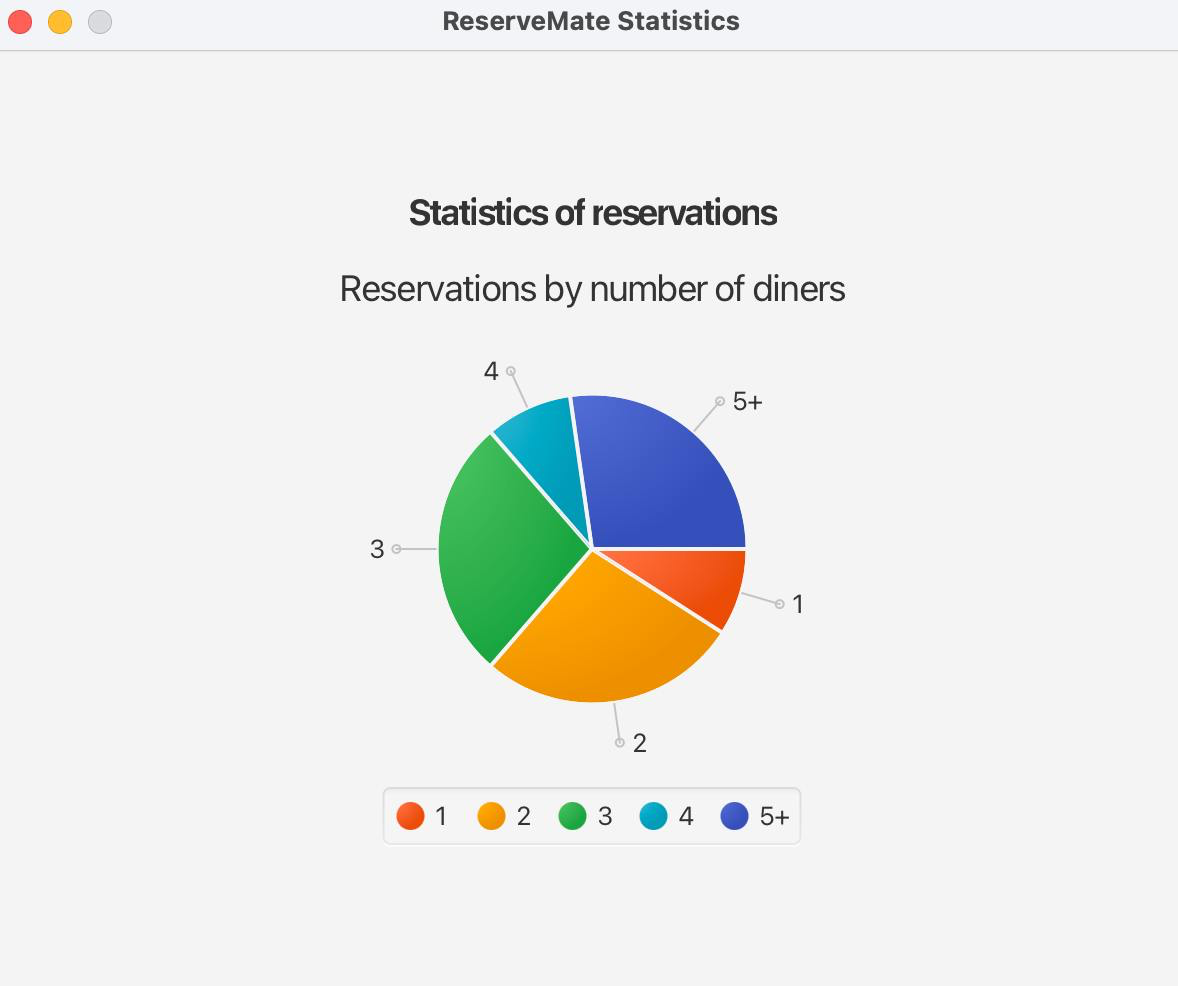
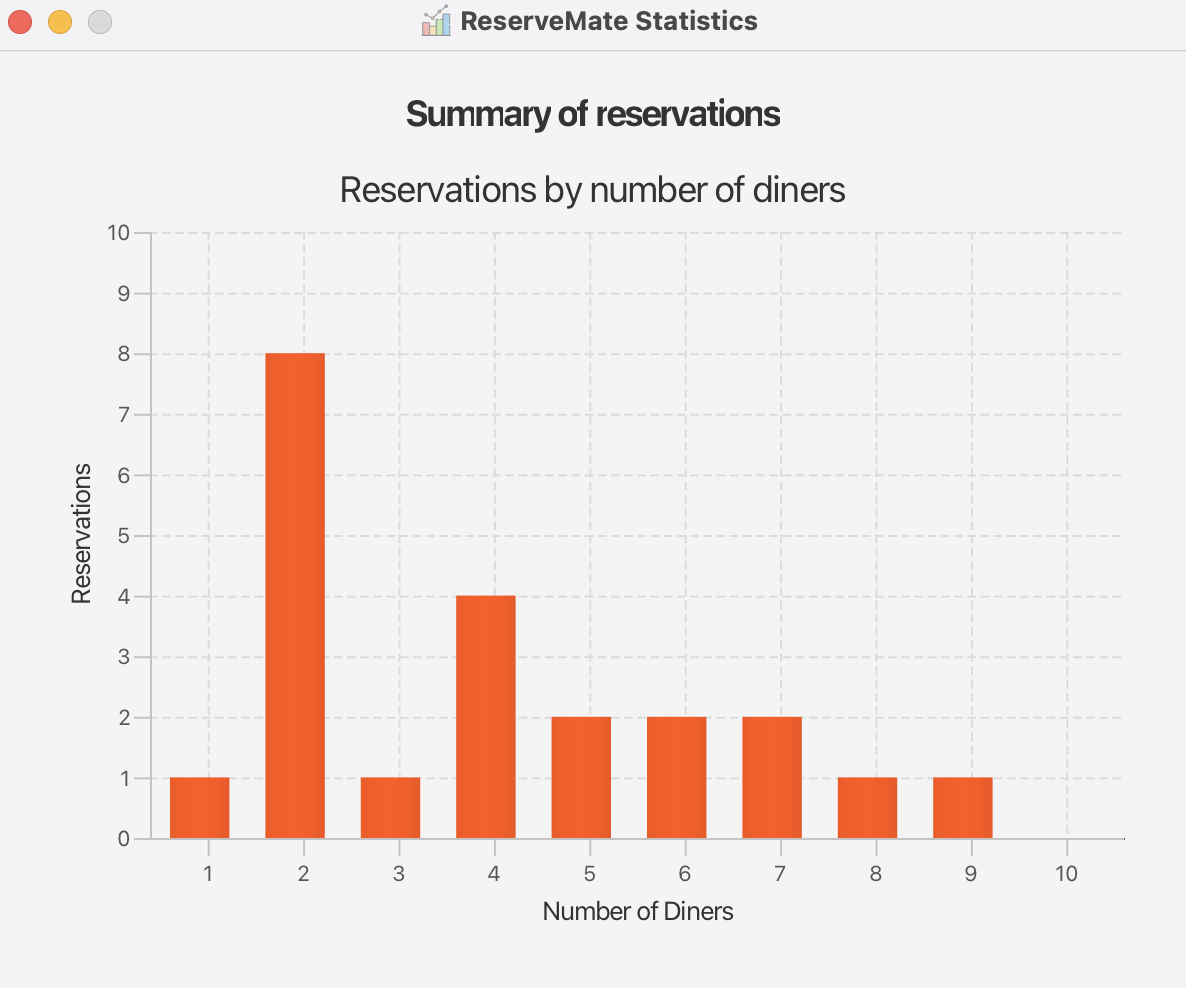
Edit no stats output

diff --git a/src/test/java/seedu/reserve/logic/commands/StatisticsCommandTest.java b/src/test/java/seedu/reserve/logic/commands/StatisticsCommandTest.java
@@ -2,18 +2,30 @@ package seedu.reserve.logic.commands;
 
 import static seedu.reserve.logic.commands.CommandTestUtil.assertCommandSuccess;
 import static seedu.reserve.logic.commands.StatisticsCommand.SHOWING_STATISTICS_MESSAGE;
+import static seedu.reserve.testutil.Assert.assertThrows;
 
 import org.junit.jupiter.api.Test;
 
+import seedu.reserve.logic.commands.exceptions.CommandException;
 import seedu.reserve.model.Model;
 import seedu.reserve.model.ModelManager;
+import seedu.reserve.model.UserPrefs;
+import seedu.reserve.testutil.TypicalReservation;
 
 public class StatisticsCommandTest {
-    private Model model = new ModelManager();
-    private Model expectedModel = new ModelManager();
+    @Test
+    public void execute_noReservations_throwsCommandException() {
+        Model emptyModel = new ModelManager(); // empty model
+        StatisticsCommand statsCommand = new StatisticsCommand();
+
+        assertThrows(CommandException.class, () -> statsCommand.execute(emptyModel));
+    }
 
     @Test
-    public void execute_help_success() {
+    public void execute_withReservations_success() {
+        Model model = new ModelManager(TypicalReservation.getTypicalReserveMate(), new UserPrefs());
+        Model expectedModel = new ModelManager(TypicalReservation.getTypicalReserveMate(), new UserPrefs());
+
         CommandResult expectedCommandResult = new CommandResult(SHOWING_STATISTICS_MESSAGE, false, true, false);
         assertCommandSuccess(new StatisticsCommand(), model, expectedCommandResult, expectedModel);
     }

diff --git a/src/main/java/seedu/reserve/logic/commands/StatisticsCommand.java b/src/main/java/seedu/reserve/logic/commands/StatisticsCommand.java
@@ -18,10 +18,17 @@ public class StatisticsCommand extends Command {
             + ": Displays statistics of all reservations in the reservation book.\n\n"
             + "Example: " + COMMAND_WORD;
 
+    public static final String NO_RESERVATIONS_MESSAGE = "There are no reservations to generate statistics from. "
+            + "Use the 'add' command to create a reservation\n";
+
 
     @Override
     public CommandResult execute(Model model) throws CommandException {
         requireNonNull(model);
+
+        if (model.getFilteredReservationList().isEmpty()) {
+            throw new CommandException(NO_RESERVATIONS_MESSAGE);
+        }
 
         return new CommandResult(SHOWING_STATISTICS_MESSAGE, false, true, false);
     }

diff --git a/docs/UserGuide.md b/docs/UserGuide.md
@@ -800,16 +800,16 @@ Format: `show <INDEX>`
 
 ### Locating reservations by name: `find`
 
-Finds `Reservation` whose names contain any of the given keywords.
+Finds `Reservation` with names that contain any of the specified keywords.
 
-Format: `find KEYWORD [MORE_KEYWORDS]`
+Format: `find NAME [MORE_NAMES]`
 
 **Constraints**
-- The search is **case-insensitive**.
+- The search is **case-insensitive**, similar to saerch platforms like Google or Contacts.
 - The order of keywords does **not** matter.
-- Only **full words** will be matched (e.g., `Han` will not match `Hans`).
+- Only **full words** will be matched (e.g., `Han` will not match `Hans`), as full name
 - Searches are done on the **name field only**.
-- Matches are based on **OR** logic (any one keyword match is sufficient).
+- Matches are based on **OR** logic (any one name match is sufficient).
 
 ---
 
@@ -1078,7 +1078,7 @@ Format: `stats`
 > `stats`
 >
 > **Output:**
-> *(Pie chart appears showing distribution of number of reservations by diner size.)*
+> *(Bar chart appears showing distribution of number of reservations by diner size.)*
 >
 > ![stats_command.png](images/statsCommand.png)
 >
@@ -1096,7 +1096,8 @@ Format: `stats`
 >
 > **Output:**
 > ```
-> No reservation data available to generate statistics. Please add reservations first.
+> There are no reservations to generate statistics from. 
+> Use the 'add' command to create a reservation.
 > ```
 >
 > ---
@@ -1108,7 +1109,9 @@ Format: `stats`
 >
 > **Output:**
 > ```
-> Invalid command.
+> Invalid command format! 
+> stats: Displays statistics of all reservations in the reservation book.
+> Example: stats
 > ```
 >
 > ---
